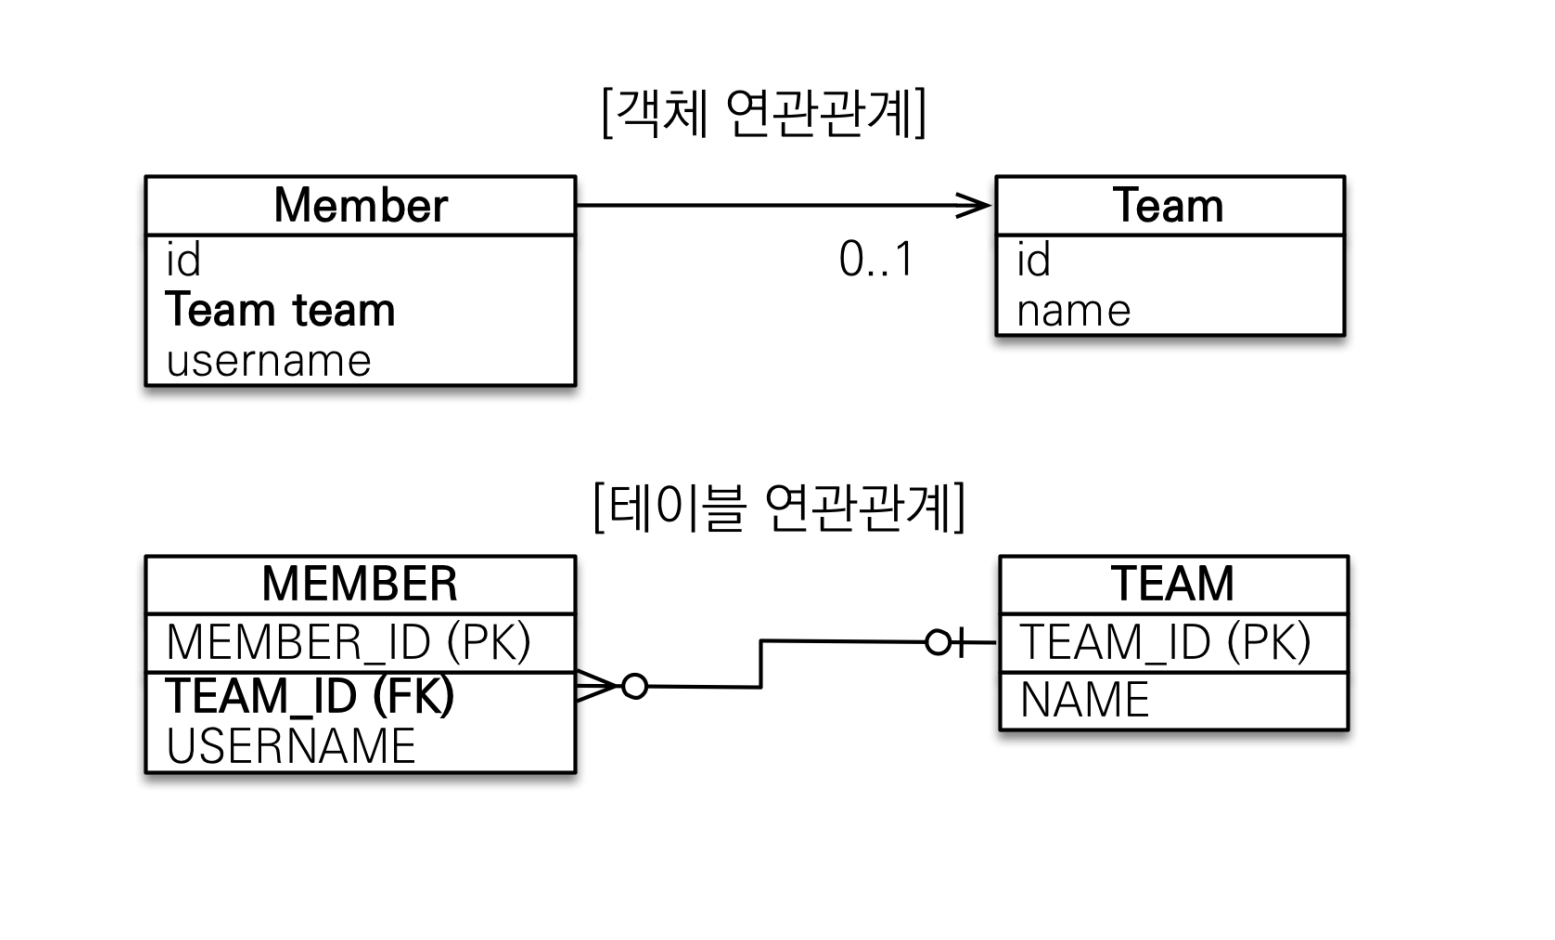
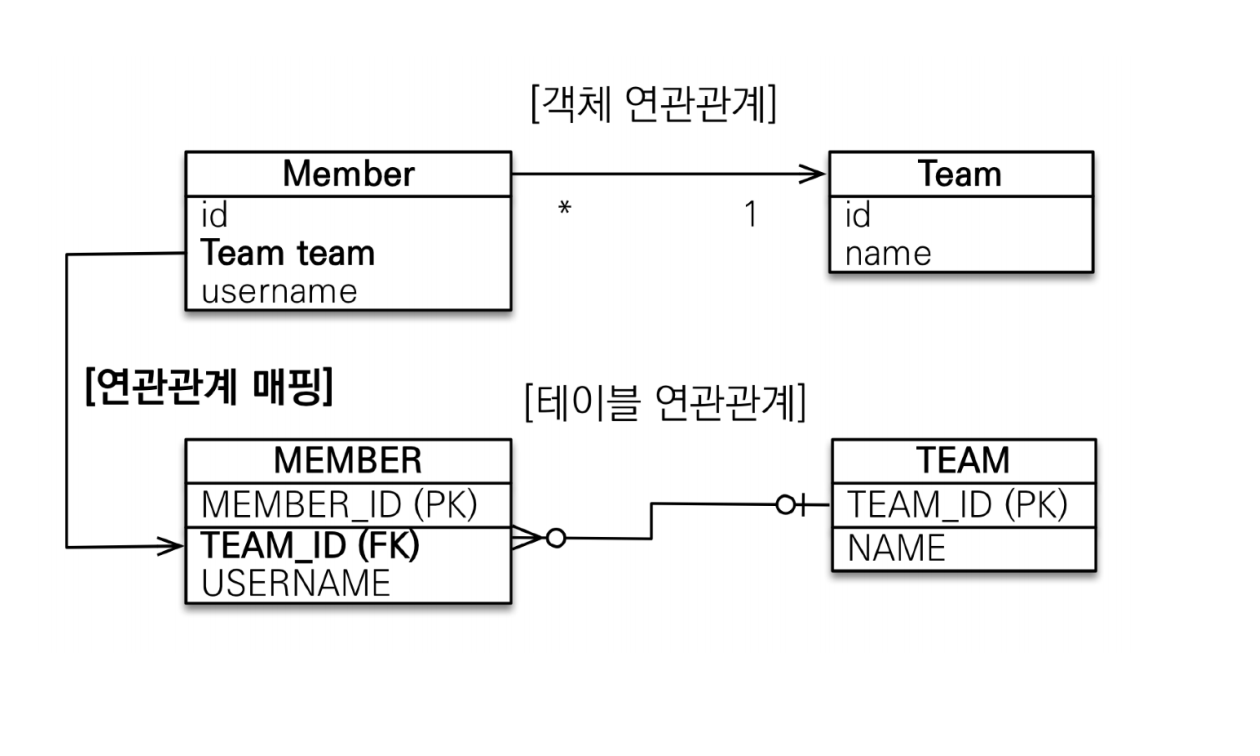
jpa_relateds

Changed region(s): [[0.031, 0.1825, 0.8976, 0.8519], [0.3714, 0.0913, 0.619, 0.1825]]

diff --git a/Spring/jpa/related/relateds.md b/Spring/jpa/related/relateds.md
@@ -1,0 +1,358 @@
+# 다양한 연관관계
+> 전제조건 : 다중성은 왼쪽을 연관관계의 주인으로 한다.(다대일 -> `다`가 주인, `일대다` -> `일`이 주인)
+## 다대일
+> `다대일` 관계의 반대 방향은 항상 `일대다` 관계고 `일대다` 관계의 반대는 항상 `다대일` 관계다. DB 테이블의 `일(1)`, `다(N)`관계에서 외래 키(`FK`)는 항상
+> `다`쪽에 있다. 따라서 객체 양방향 관계에서 연관관계의 주인은 항상 `다`쪽이다. 
+
+### 다대일 단방향
+
+![img.png](image/img.png)
+
+```java
+@Entity
+public class Member {
+
+    @Id  @GeneratedValue
+    @Column(name = "member_id")
+    private Long id;
+
+    private String name;
+    
+    @ManyToOne
+    @JoinColumn(name = "team_id")
+    private Team team;
+}
+```
+`@JoinColumn`을 사용해서 `team`필드를 `team_id` 외래 키와 매핑했기 때문에 `Member.team`필드로 회원 테이블의 외래 키를 관리한다.
+
+### 다대일 양방향
+
+![img_1.png](image/img_1.png)
+
+실선이 연관관계의 주인이고 점선이 연관관계의 주인이 아니다.
+
+```java
+@Entity
+public class Member {
+
+    @Id  @GeneratedValue
+    @Column(name = "member_id")
+    private Long id;
+
+    private String name;
+    
+    @ManyToOne
+    @JoinColumn(name = "team_id")
+    private Team team;
+
+    public void setTeam(Team team) {
+        if (this.team != null) {
+            this.team.getMembers().remove(this);
+        }
+        this.team = team;
+        team.getMembers().add(this);
+    }
+}
+
+@Entity
+public class Team {
+
+    @Id @GeneratedValue
+    @Column(name = "team_id")
+    private Long id;
+
+    private String name;
+
+    @OneToMany(mappedBy = "team")
+    private List<Member> members = new ArrayList<>();
+}
+```
+
+- **양방향은 외래 키가 있는 쪽이 연관관계의 주인이다.**
+  - `일대다`와 `다대일` 연관관계는 항상 다(N)에 외래 키가 있다. JPA는 외래 키를 관리할 때 연관관계의 주인만 사용한다. 
+- **양방향 연관관계는 항상 서로를 참조해야 한다.**
+  - 어느 한 쪽만 참조하면 양방향 연관관계가 성립하지 않기 때문에 `Member`의 `setTeam()`같은 연관관계 편의 메서드를 만들어서 항상 서로를 참조하게 할 수 있다.
+  - 편의 메서드는 양쪽에 다 만들 필요는 없고 한 곳에만 작성해서 관리하는 것이 좋다.
+
+<br>
+
+## 일대다
+> `일대다` 관계는 엔티티를 하나 이상 참조할 수 있으므로 자바 컬렉션인 `Collection`, `List`, `Set`, `Map` 중에 하나를 사용해야 한다.
+
+### 일대다 단방향
+
+![img_2.png](image/img_2.png)
+
+일대다 단방향 관계는 약간 특이한데 보통 자신이 매핑한 테이블의 외래 키를 관리하는데 이 매핑은 반대쪽 테이블에 있는 외래 키를 관리한다.
+
+```java
+@Entity
+public class Team {
+
+    @Id @GeneratedValue
+    @Column(name = "team_id")
+    private Long id;
+
+    private String name;
+
+    @OneToMany
+    @JoinColumn(name = "team_id")
+    private List<Member> members = new ArrayList<>();
+}
+```
+
+**일대다 단방향 관계의 단점은 매핑한 객체가 관리하는 외래 키가 다른 테이블에 있다는 점이다. 본인 테이블에 외래 키가 있으면 엔티티의 저장과 연관관계 처리를
+`INSERT SQL`한 번으로 끝낼 수 있지만 다른 테이블에 외래 키가 있으면 연관관계 처리를 위한 `UPDATE SQL`을 추가로 실행해야 한다.**
+
+### 일대다 양방향
+> 일대다 양방향 매핑은 존재하지 않고 대신 다대일 양방향 매핑을 사용해야 한다.
+
+![img_3.png](image/img_3.png)
+
+일대다 양방향 매핑을 하기 위해서는 `@ManyToOne`에 `mappedBy` 속성을 설정해야 하는데 `@ManyToOne`에는 `mappedBy` 속성이 없다. 그래서 약간 억지로 
+일대다 단방향 매핑 반대편에 같은 외래 키를 사용하는 다대일 단방향 매핑을 **읽기 전용**으로 하나 추가할 수 있다.
+
+```java
+@Entity
+public class Team {
+
+    @Id @GeneratedValue
+    @Column(name = "team_id")
+    private Long id;
+
+    private String name;
+
+    @OneToMany
+    @JoinColumn(name = "team_id")
+    private List<Member> members = new ArrayList<>();
+}
+
+@Entity
+public class Member {
+
+    @Id  @GeneratedValue
+    @Column(name = "member_id")
+    private Long id;
+
+    private String name;
+
+    @ManyToOne
+    @JoinColumn(name = "team_id", insertable = false, updatable = false)
+    private Team team;
+}
+```
+
+> **일대다 관계는 웬만하면 다대일을 사용하도록 하자.**
+
+<br>
+
+## 일대일
+> 양쪽이 서로 하나의 관계를 가진다.
+
+- 일대일 관계는 그 반대도 일대일 관계다.
+- 일대일 관계는 주 테이블이나 대상 테이블 둘 중 어느 곳이나 외래 키를 가질 수 있다.
+
+### 주 테이블 외래키 - 단방향
+
+![img_4.png](image/img_4.png)
+
+```java
+@Entity
+public class Member {
+
+    @Id  @GeneratedValue
+    @Column(name = "member_id")
+    private Long id;
+
+    private String name;
+
+    @OneToOne
+    @JoinColumn(name = "locker_id")
+    private Locker locker;
+}
+
+@Entity
+public class Locker {
+
+    @Id @GeneratedValue
+    @Column(name = "locker_id")
+    private Long id;
+    private String name;
+}
+```
+`@OneToOne`을 사용하고 DB에는 `locker_id`외래 키에 유니크 제약 조건을 추가한다. 다대일 단방향과 거의 비슷하다.
+
+### 주 테이블 외래키 - 양방향
+
+![img_5.png](image/img_5.png)
+
+```java
+@Entity
+public class Member {
+
+    @Id  @GeneratedValue
+    @Column(name = "member_id")
+    private Long id;
+
+    private String name;
+
+    @OneToOne
+    @JoinColumn(name = "locker_id")
+    private Locker locker;
+}
+
+@Entity
+public class Locker {
+
+    @Id @GeneratedValue
+    @Column(name = "locker_id")
+    private Long id;
+    private String name;
+    
+    @OneToOne(mappedBy = "locker")
+    private Member member;
+}
+```
+양방향이므로 `mappedBy` 속성으로 연관관계의 주인을 정했다.
+
+### 대상 테이블 외래키 - 단방향
+> 대상 테이블에 외래 키가 있는 단방향 관계는 JPA에서 지원하지 않는다.
+
+![img_6.png](image/img_6.png)
+
+### 대상 테이블 외래키 - 양방향
+
+![img_7.png](image/img_7.png)
+
+```java
+@Entity
+public class Member {
+
+    @Id  @GeneratedValue
+    @Column(name = "member_id")
+    private Long id;
+
+    private String name;
+
+    @OneToOne(mappedBy = "member")
+    private Locker locker;
+}
+
+@Entity
+public class Locker {
+
+  @Id @GeneratedValue
+  @Column(name = "locker_id")
+  private Long id;
+  private String name;
+
+  @OneToOne
+  @JoinColumn(name = "member_id")
+  private Member member;
+}
+```
+- **주 테이블의 외래 키**
+  - 주 객체가 대상 객체의 참조를 가지는 것처럼 주 테이블의 외래 키를 두고 대상 테이블을 찾는다.
+  - **장점** : JPA 매핑이 편리하고 주 테이블만 조회해도 대상 테이블에 데이터가 있는지 확인 가능하다.
+  - **단점** : 값이 없으면 외래 키에 `null`을 허용한다.
+- **대상 테이블의 외래 키**
+  - 대상 테이블의 외래 키가 존재한다.
+  - **장점** : 주 테이블과 대상 테이블을 일대일에서 일대다로 변경할 때 테이블 구조를 유지할 수 있다.
+  - **단점** : 프록시 기능의 한계로 **지연 로딩으로 설정해도 항상 즉시 로딩 된다.**
+
+<br>
+
+## 다대다
+> 관계형 DB는 정규화된 테이블 2개로 다대다 관계를 표현할 수 없다. 그래서 보통 다대다 관계를 일대다, 다대일 관계로 풀어내는 연결 테이블을 사용한다.
+
+### 다대다 단방향
+
+![img_8.png](image/img_8.png)
+
+```java
+@Entity
+public class Member {
+
+    @Id @GeneratedValue
+    @Column(name = "member_id")
+    private Long id;
+    private String name;
+
+    @ManyToMany
+    @JoinTable(name = "member_product",
+               joinColumns = @JoinColumn(name = "member_id"),
+               inverseJoinColumns = @JoinColumn(name = "product_id"))
+    private List<Product> products = new ArrayList<>();
+}
+
+@Entity
+public class Product {
+
+  @Id @GeneratedValue
+  @Column(name = "product_id")
+  private Long id;
+
+  private String name;
+}
+```
+ 
+### 다대다 양방향
+```java
+@Entity
+public class Product {
+
+  @Id @GeneratedValue
+  @Column(name = "product_id")
+  private Long id;
+  private String name;
+  
+  //추가
+  @ManyToMany(mappedBy = "products")
+  private List<Member> members = new ArrayList<>();
+}
+```
+
+**다대다 관계는 여러가지 한계가 많으니 연결 엔티티를 사용해서 다대일, 일대다 관계로 풀어내자.**
+
+![img_9.png](image/img_9.png)
+
+```java
+@Entity
+public class MemberProduct {
+
+    @Id @GeneratedValue
+    private Long id;
+
+    @ManyToOne
+    @JoinColumn(name = "member_id")
+    private Member member;
+
+    @ManyToOne
+    @JoinColumn(name = "product_id")
+    private Product product;
+}
+
+@Entity
+public class Member {
+
+  @Id  @GeneratedValue
+  @Column(name = "member_id")
+  private Long id;
+  private String name;
+  
+  @OneToMany(mappedBy = "member")
+  private List<MemberProduct> memberProducts = new ArrayList<>();
+}
+
+@Entity
+public class Product {
+
+  @Id @GeneratedValue
+  @Column(name = "product_id")
+  private Long id;
+  private String name;
+
+  @OneToMany(mappedBy = "product")
+  private List<MemberProduct> memberProducts = new ArrayList<>();
+}
+```
